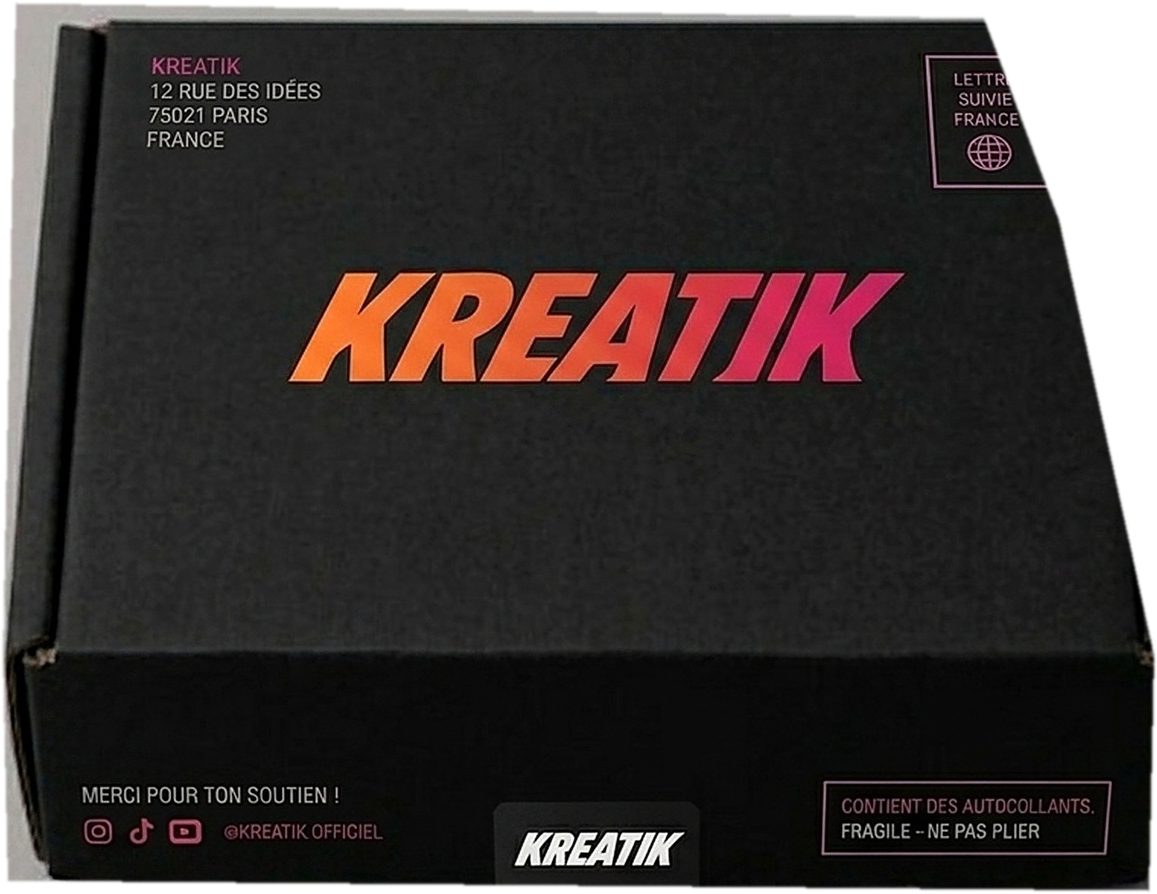
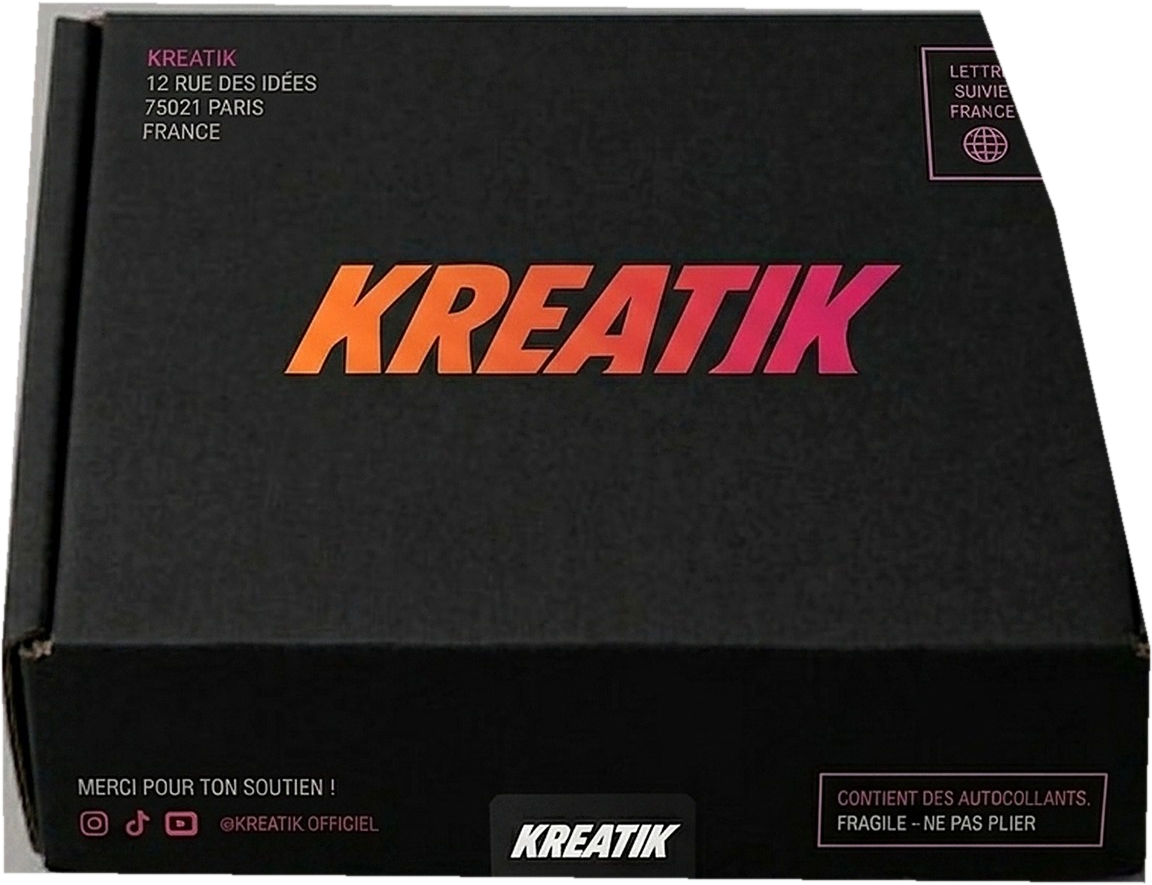
Corrige le résidu de fond gris en haut à gauche de la boîte détourée et l'agrandit dans le hero

diff --git a/components/kreatik/site-shell.tsx b/components/kreatik/site-shell.tsx
@@ -29,7 +29,7 @@ const stickers = [
   { label: '974 Flamme', src: '/kreatik/stickers/974-tag-gradient.png', w: 720, h: 900, rotate: '-4deg', x: '49%', y: '68%', width: 'w-16 md:w-20' },
 ]
 const heroLogo = { src: '/kreatik/logo-kreatik.png', x: '61%', y: '77%', width: 'w-28 md:w-36' }
-const heroPackaging = { src: '/kreatik/packaging/boite-transparent.png', w: 1157, h: 894, x: '40%', y: '50%', width: 'w-56 md:w-72' }
+const heroPackaging = { src: '/kreatik/packaging/boite-transparent.png', w: 1152, h: 885, x: '40%', y: '50%', width: 'w-72 md:w-[440px]' }
 
 const heroLines = [
   { text: 'DÉCOUVRE.', className: 'text-[#F3ECE0]' },
